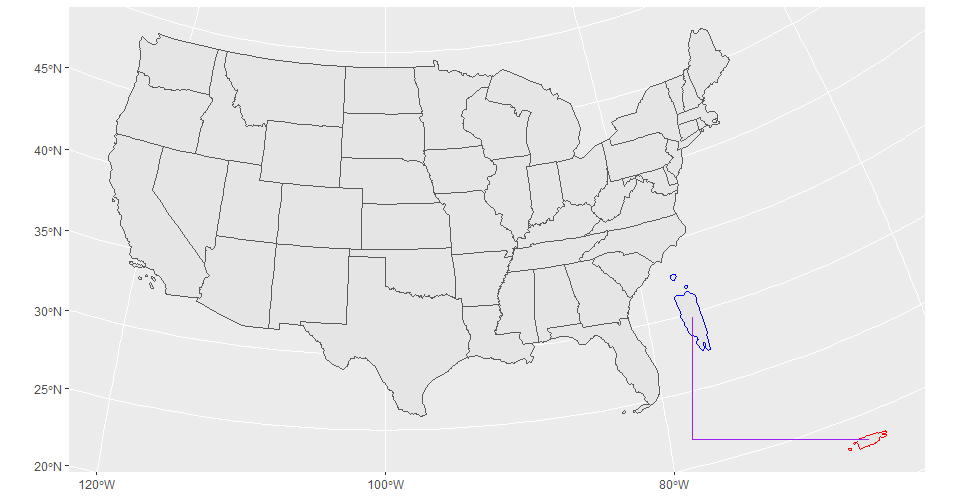
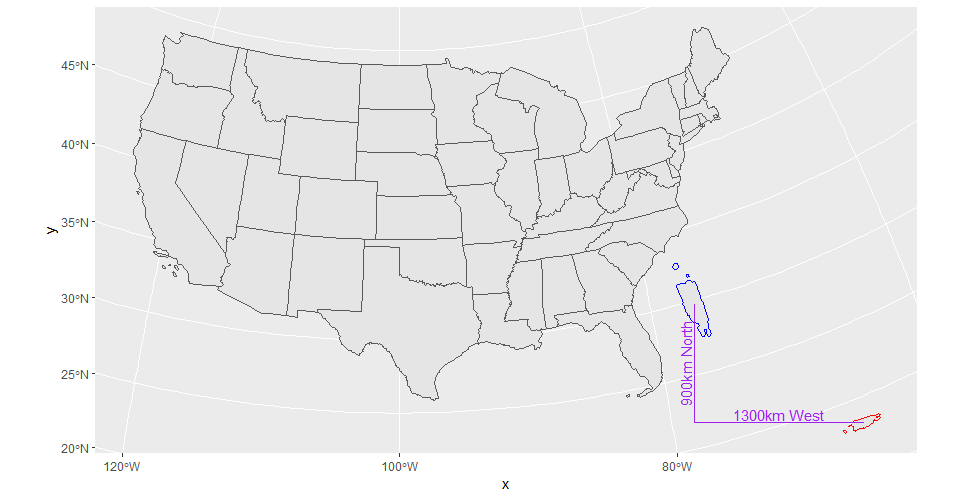
add west/north labels to readme example

diff --git a/README.md b/README.md
@@ -102,7 +102,16 @@ ggplot()+
                             scale=2,
                             shift = c(-1300,900)*1000,
                             rotate=pi/2), color="blue")+
-  geom_sf(data=pts, color="purple")
+  geom_sf(data=pts, color="purple")+ 
+  annotate(geom="text",
+           x=c(mean(c(pt1[[1]][1], pt2[[1]][1])),
+               mean(c(pt2[[1]][1], pt3[[1]][1]))),
+           y=c(mean(c(pt1[[1]][2], pt2[[1]][2])),
+               mean(c(pt2[[1]][2], pt3[[1]][2]))),
+           label=c("1300km West","900km North"),
+           angle=c(0,90),
+           color="purple",
+           vjust=-.2)
 ```
 
 <img src="man/figures/README-example5-1.png" width="100%" />
